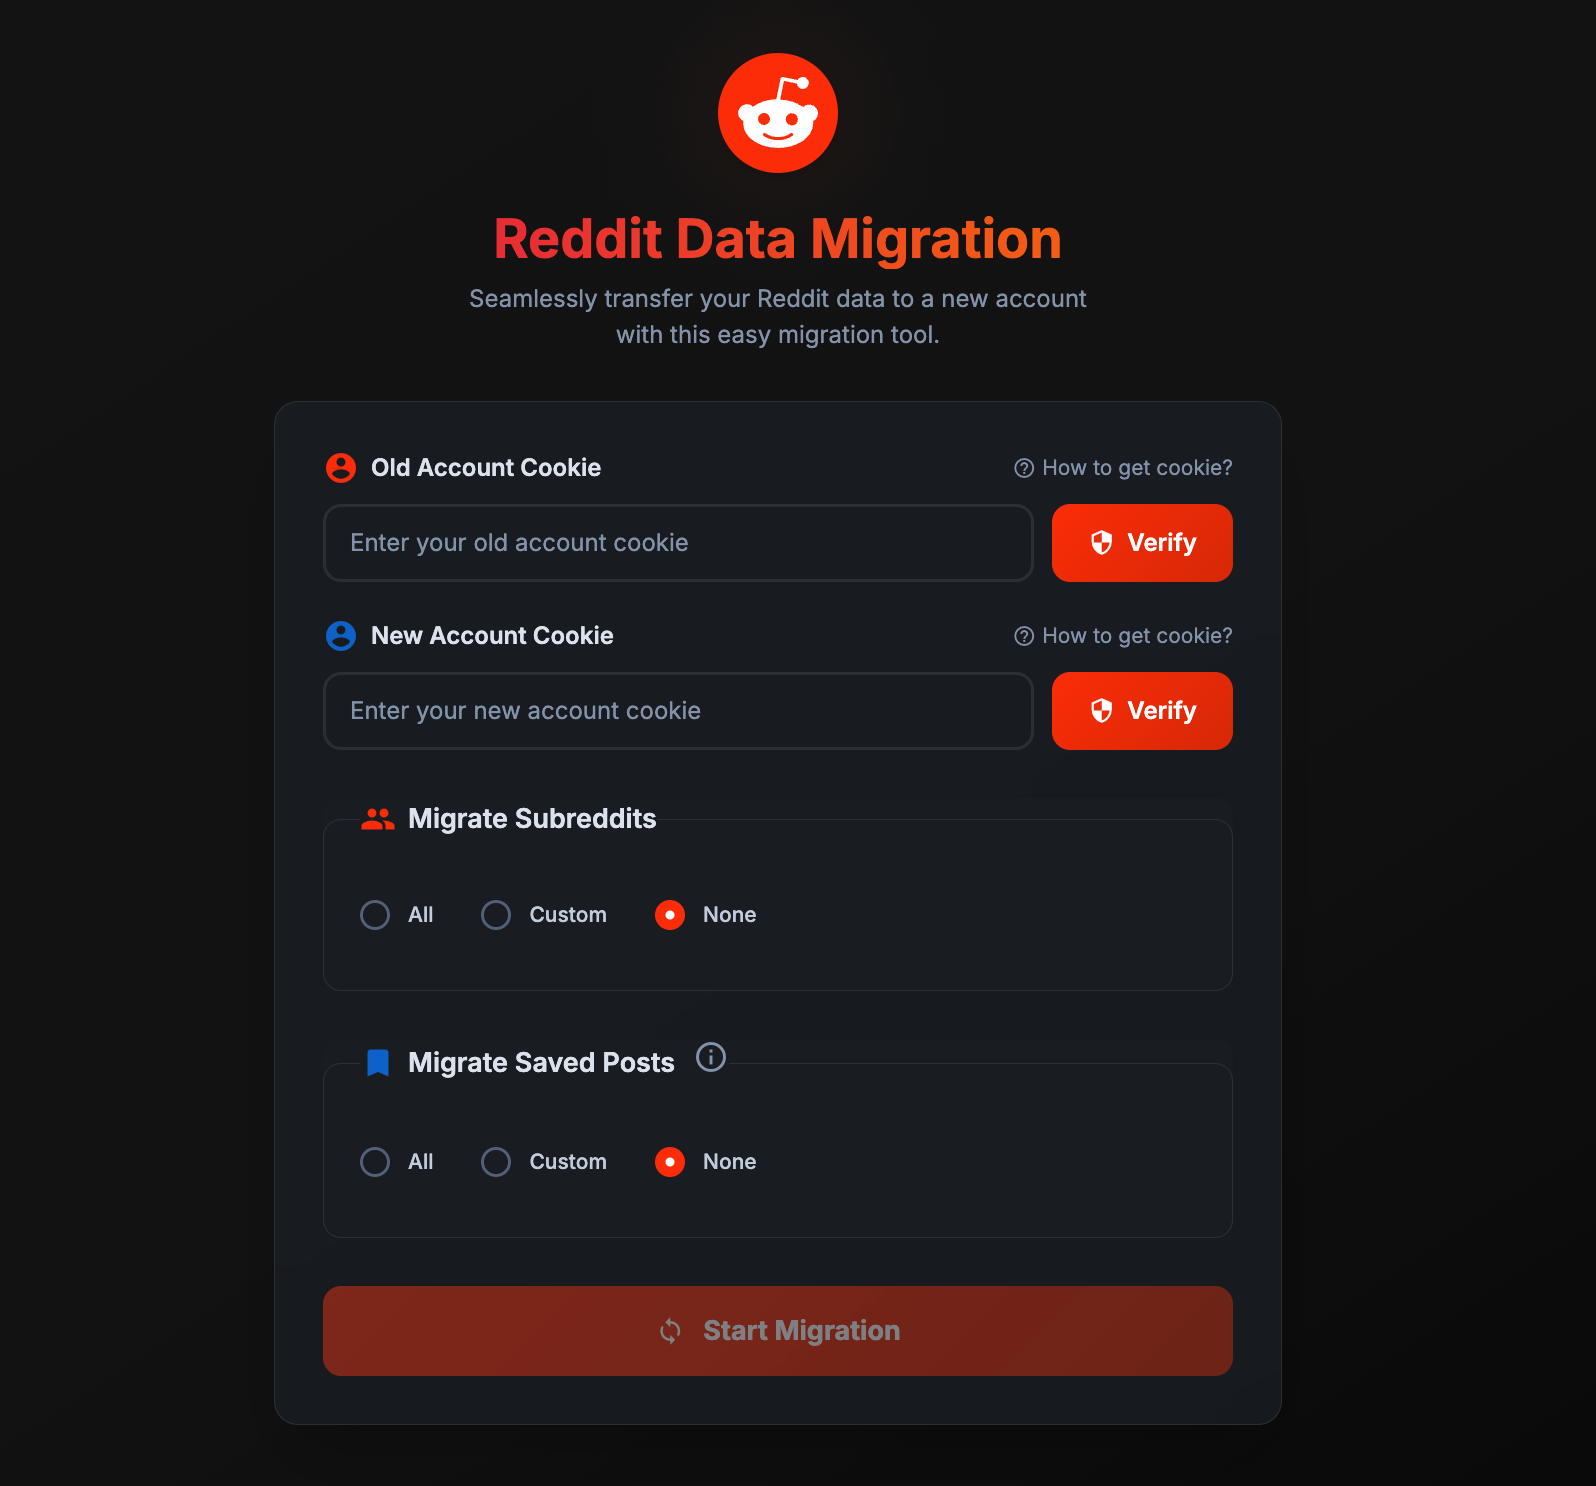
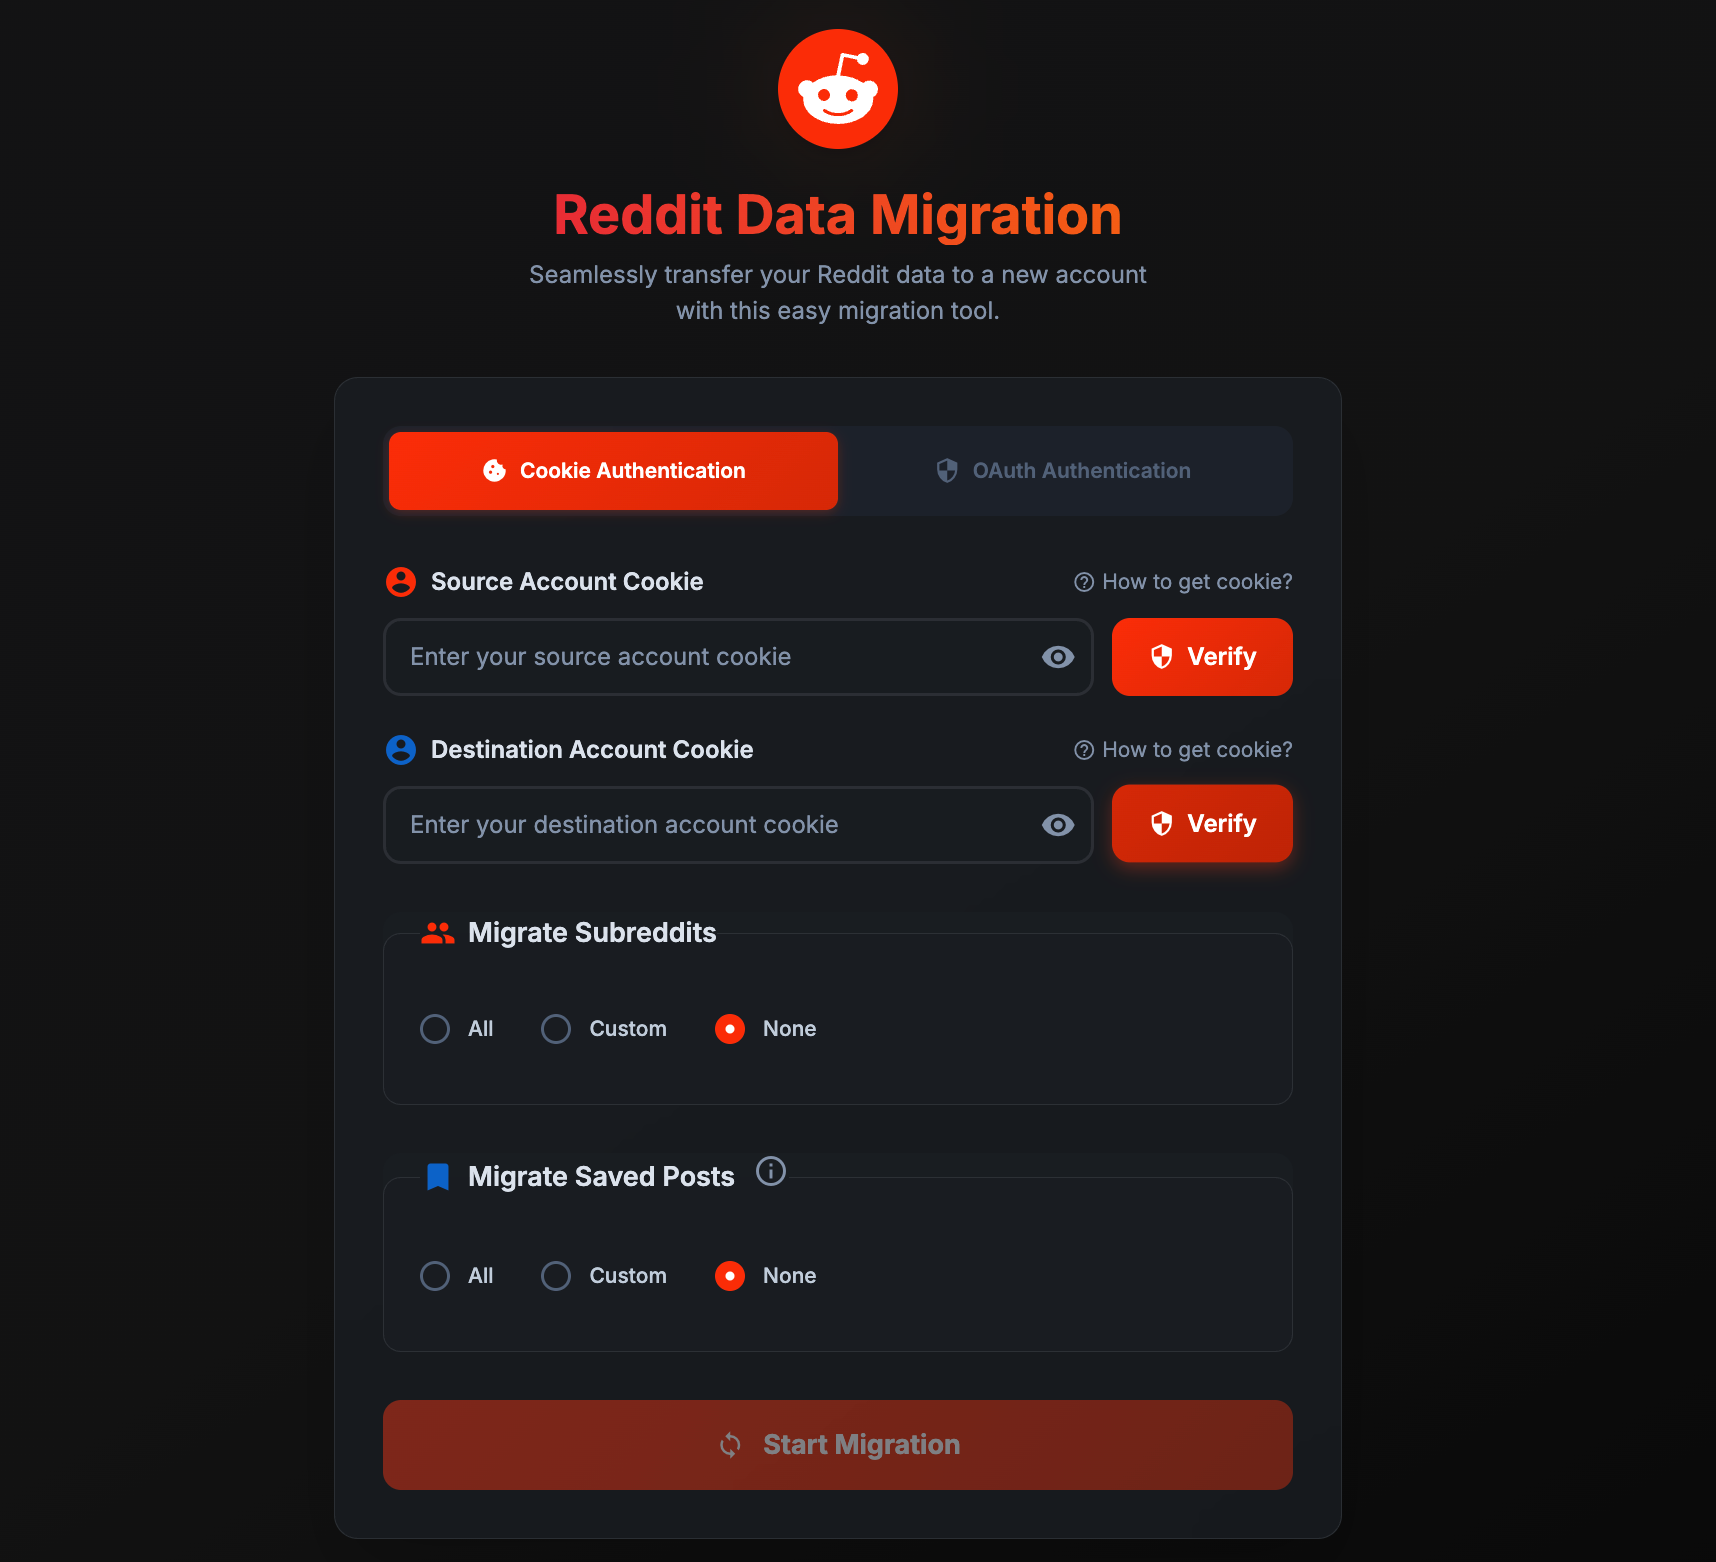
Update README.md to enhance authentication methods and migration features

diff --git a/README.md b/README.md
@@ -11,15 +11,17 @@ Easily transfer your Reddit account data to a new account - including saved post
 ## Features
 
 - **Simple Interface**: User-friendly web interface - no command line required
-- **Bulk Transfer**: Migrate hundreds of saved posts and subreddit subscriptions in minutes
+- **Dual Authentication**: Support for both OAuth and Cookie-based authentication methods
+- **Bulk Transfer**: Migrate hundreds of saved posts and subreddit subscriptions
+- **Smart Migration**: Automatically filters out duplicates and existing items to avoid conflicts
 - **Privacy First**: Runs locally on your computer - your data never leaves your machine
 - **Cross-Platform**: Available for Windows, Mac, and Linux
 
 ## What Gets Migrated
 
-✅ **Subreddit Subscriptions** - Transfer all your joined communities  
-✅ **Saved Posts** - Move your saved posts collection  
-✅ **User Follows** - Migrate followed user accounts
+**Subreddit Subscriptions** - Transfer all your joined communities  
+**Saved Posts** - Move your saved posts collection  
+**User Follows** - Migrate followed user accounts
 
 ## Quick Start
 
@@ -43,13 +45,23 @@ Easily transfer your Reddit account data to a new account - including saved post
 
 The app will open in your browser at `http://localhost:5005`
 
-> **Security Note**: This tool requires Reddit cookies which contain sensitive data. Never share these cookies with anyone. The tool runs entirely on your local machine.
+> **Security Note**: This tool requires either Reddit OAuth credentials or cookies which contain sensitive data. Never share these credentials with anyone. The tool runs entirely on your local machine for maximum privacy.
 
 ## Usage Guide
 
-### Step 1: Get Your Reddit Cookies
+### Authentication Methods
 
-You'll need cookies from both your old and new Reddit accounts:
+Choose between two authentication methods:
+
+#### Method 1: OAuth Authentication (Recommended)
+
+1. **Create Reddit App**: Go to [Reddit App Preferences](https://www.reddit.com/prefs/apps)
+2. **Click "Create App"** and select "web app"
+3. **Set redirect URI** to: `http://localhost:5005/api/oauth/callback`
+4. **Copy Client ID and Secret** from your created app
+5. **Enter credentials** in the OAuth tab and follow the authentication flow
+
+#### Method 2: Cookie Authentication (Alternative)
 
 1. Log in to Reddit in your browser
 2. Open Developer Tools (F12 or right-click → Inspect)
@@ -61,12 +73,12 @@ You'll need cookies from both your old and new Reddit accounts:
 
 [See visual guide](./docs/assets/cookie-retrieval.gif)
 
-### Step 2: Run the Migration
+### Run the Migration
 
-1. Paste the cookies for both accounts in the app
-2. Click "Verify" to check the cookies are valid
-3. Select what you want to migrate
-4. Click "Submit" to start the migration
+1. **Authenticate** both accounts using your preferred method
+2. **Verify** the accounts are properly connected
+3. **Select** what you want to migrate
+4. **Submit** to start the migration
 
 > **Note**: Large migrations (50+ saved posts) may take several minutes due to Reddit's rate limiting. Keep the browser tab open until completion.
 
@@ -100,17 +112,34 @@ docker build -t reddit-migrate-img .
 docker run -d -p 127.0.0.1:5005:5005 --name reddit-migrate reddit-migrate-img
 ```
 
+## Recent Updates
+
+### Latest Features (v0.2.3)
+
+- **OAuth Authentication**: Added official Reddit OAuth support as the recommended authentication method
+- **Smart Migration**: Enhanced migration logic to filter out duplicates and existing items automatically
+- **Improved Saved Posts**: Fixed chronological ordering - oldest posts are now properly preserved at the bottom
+- **Better UX**: Dual-tab interface supporting both OAuth and Cookie authentication methods
+
+### Previous Updates
+
+- **Enhanced UI**: Modern, responsive interface with Reddit-themed styling
+- **Rate Limiting**: Intelligent handling of Reddit's API rate limits
+- **Error Handling**: Improved error messages and recovery mechanisms
+
 ## Demo
 
 Watch it in action: [YouTube Demo](https://youtu.be/pHGYuwZ1Jp0)
 
 ## How It Works
 
-Reddit-Migrate uses Reddit's official APIs. It extracts the access token from your Reddit cookies and uses it for Bearer token authentication to transfer data between accounts.
+Reddit-Migrate uses Reddit's official APIs with support for both OAuth and cookie-based authentication to transfer data between accounts.
 
-- **Cookie Verification**: Validates cookies by checking for access tokens and testing API responses
+- **OAuth Authentication**: Uses Reddit's official OAuth flow for secure API access with proper scopes
+- **Cookie Authentication**: Extracts access tokens from Reddit cookies as an alternative method
+- **Smart Migration**: Automatically detects existing items and only migrates new content to avoid duplicates
 - **Subreddit Migration**: Fetches all subscribed subreddits and subscribes to them in batches of 100
-- **Saved Posts**: Retrieves saved posts and saves them individually (subject to rate limits)
+- **Saved Posts**: Retrieves saved posts in proper chronological order and saves them individually
 - **User Follows**: Transfers followed user accounts to the new account
 
 The tool runs entirely locally on your machine - no data is sent to external servers.
